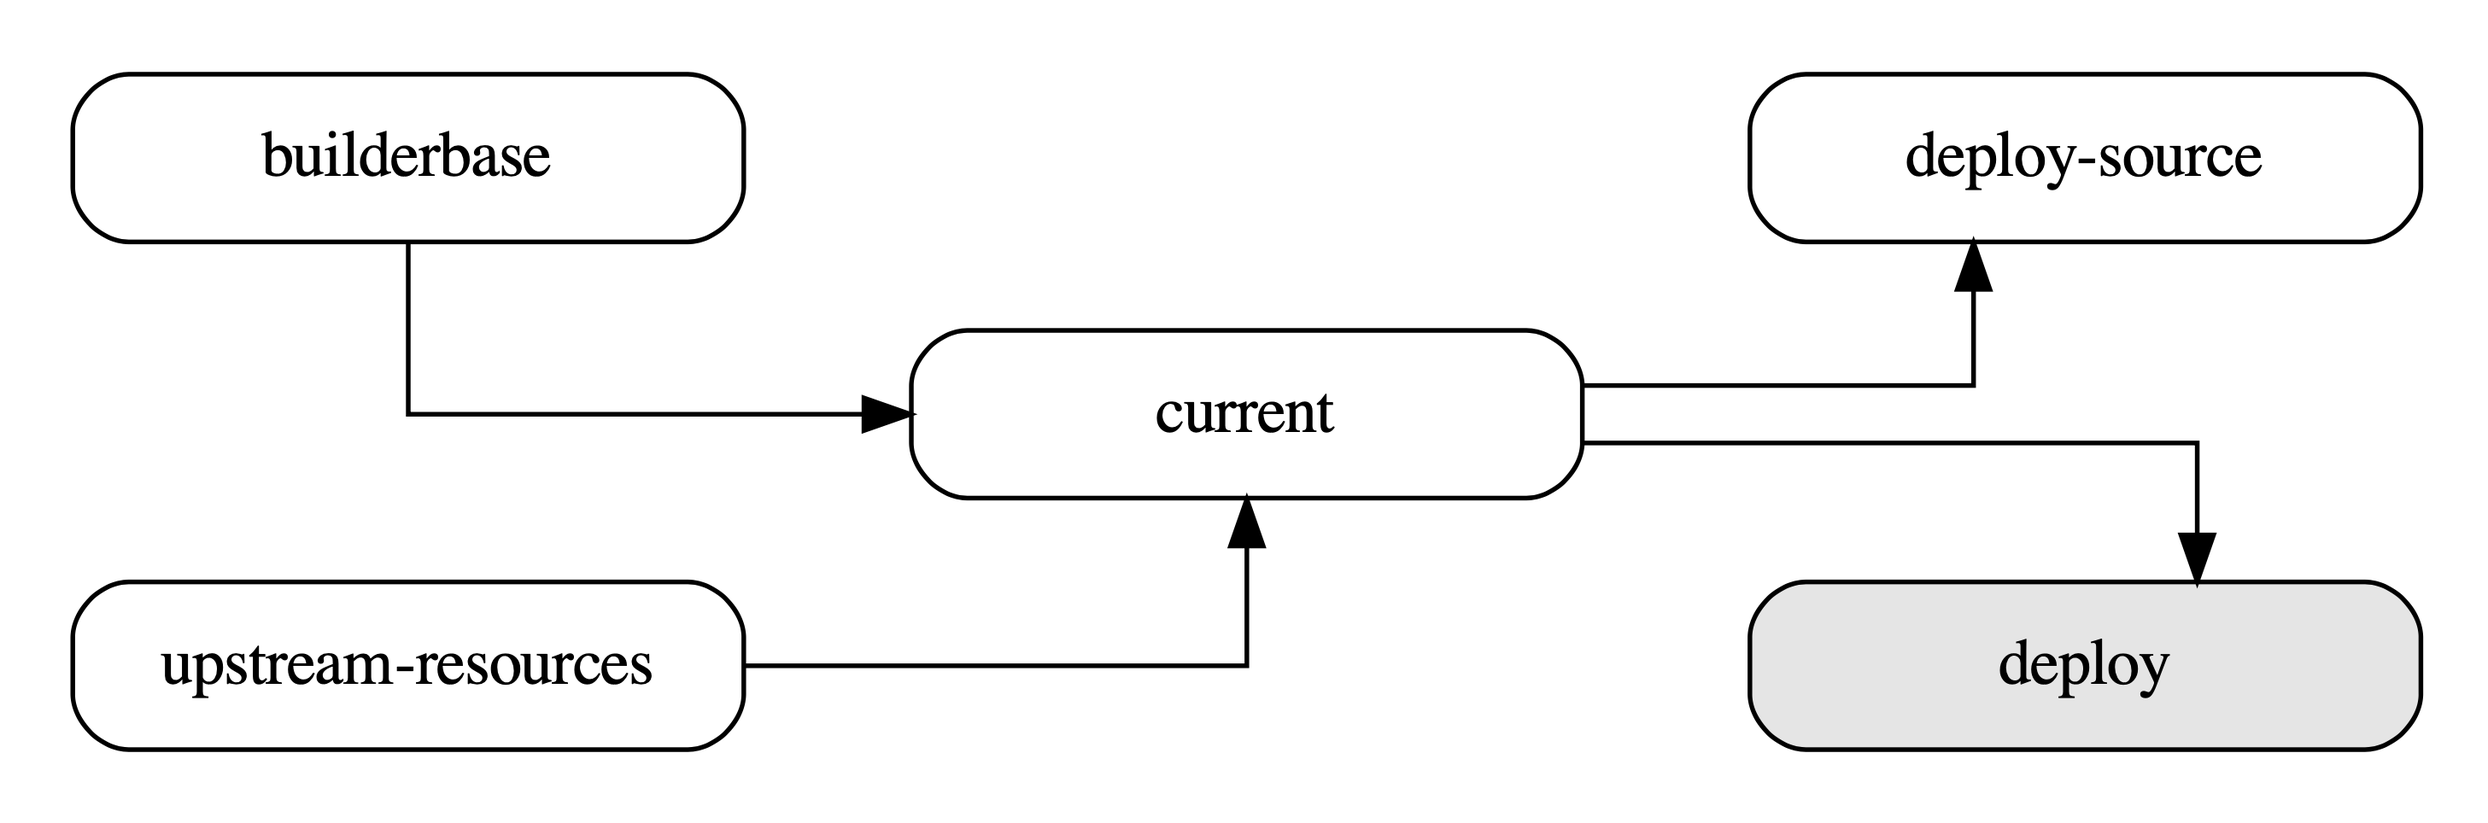
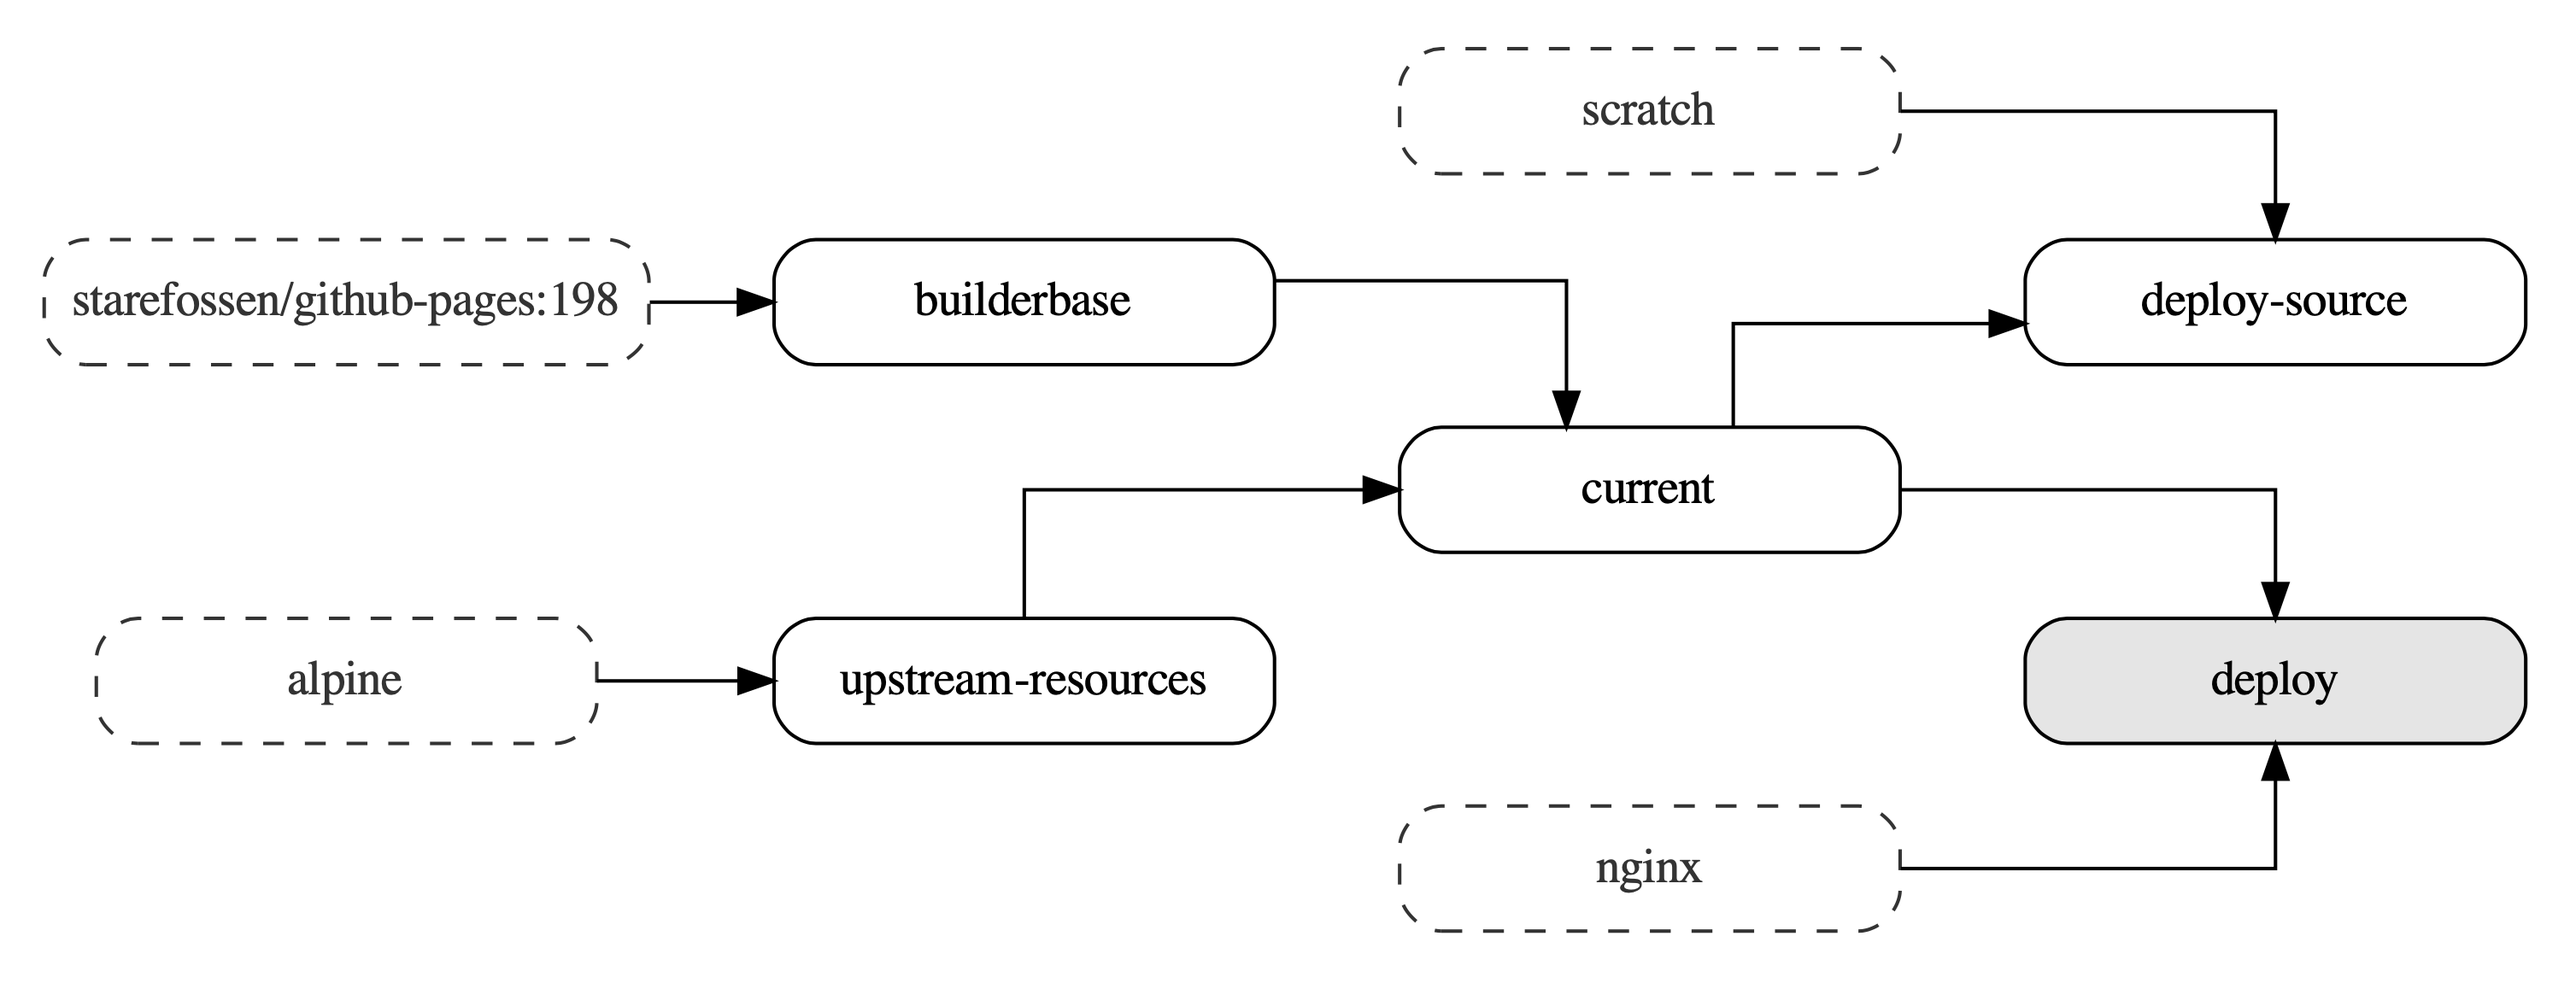
Include external base images in graph output (#3)
* Add comments to Stage struct

* Add support for external base images

* Update readme and example image

* Put all node names in quotes

* Don't use external base image as build stage name

* Uppercase the output Dockerfile.pdf

diff --git a/internal/dockerfile2dot/build.go b/internal/dockerfile2dot/build.go
@@ -13,6 +13,16 @@ func BuildDotFile(simplifiedDockerfile SimplifiedDockerfile) string {
 	graph.AddAttr("G", "rankdir", "LR")
 	graph.AddAttr("G", "nodesep", "1")
 
+	for _, baseImage := range simplifiedDockerfile.BaseImages {
+		graph.AddNode("G", "\""+baseImage.ID+"\"", map[string]string{
+			"shape":     "Mrecord",
+			"width":     "2",
+			"style":     "dashed",
+			"color":     "grey20",
+			"fontcolor": "grey20",
+		})
+	}
+
 	for index, stage := range simplifiedDockerfile.Stages {
 		attrs := map[string]string{
 			"label": "\"" + getStageLabel(stage) + "\"",
@@ -26,7 +36,7 @@ func BuildDotFile(simplifiedDockerfile SimplifiedDockerfile) string {
 			attrs["fillcolor"] = "grey90"
 		}
 
-		graph.AddNode("G", stage.ID, attrs)
+		graph.AddNode("G", "\""+stage.ID+"\"", attrs)
 
 		for _, waitForStageID := range stage.WaitFor {
 			if waitForStageID == "" {
@@ -34,8 +44,8 @@ func BuildDotFile(simplifiedDockerfile SimplifiedDockerfile) string {
 			}
 
 			graph.AddEdge(
-				getRealStageID(simplifiedDockerfile, waitForStageID),
-				stage.ID,
+				"\""+getRealStageID(simplifiedDockerfile, waitForStageID)+"\"",
+				"\""+stage.ID+"\"",
 				true,
 				nil,
 			)
@@ -53,11 +63,13 @@ func getStageLabel(stage Stage) string {
 }
 
 func getRealStageID(simplifiedDockerfile SimplifiedDockerfile, stageID string) string {
+	// Look up the real stage id, could be either numeric or the "AS" alias
 	for _, stage := range simplifiedDockerfile.Stages {
 		if stageID == stage.ID || stageID == stage.Name {
 			return stage.ID
 		}
 	}
-	// This should never happen
-	return ""
+
+	// It is actually an external base image, keep the ID as is
+	return stageID
 }

diff --git a/internal/dockerfile2dot/convert.go b/internal/dockerfile2dot/convert.go
@@ -16,6 +16,8 @@ func dockerfileToSimplifiedDockerfile(content []byte) SimplifiedDockerfile {
 	}
 
 	simplifiedDockerfile := SimplifiedDockerfile{}
+
+	// Set that holds all stage IDs
 	stages := make(map[string]struct{})
 
 	// Add all stages
@@ -29,11 +31,10 @@ func dockerfileToSimplifiedDockerfile(content []byte) SimplifiedDockerfile {
 			stage.ID = fmt.Sprint(stageIndex)
 			stage.WaitFor = []string{child.Next.Value}
 
+			// If there is an "AS" alias, set is at the name
 			if child.Next.Next != nil {
 				stages[child.Next.Next.Next.Value] = struct{}{}
 				stage.Name = child.Next.Next.Next.Value
-			} else {
-				stage.Name = child.Next.Value
 			}
 
 			simplifiedDockerfile.Stages = append(simplifiedDockerfile.Stages, stage)
@@ -52,11 +53,19 @@ func dockerfileToSimplifiedDockerfile(content []byte) SimplifiedDockerfile {
 		}
 	}
 
-	// Remove WaitFors that are actually external images
-	for index, stage := range simplifiedDockerfile.Stages {
-		for waitForIndex, waitFor := range stage.WaitFor {
+	// Set that holds all external base images
+	baseImages := make(map[string]struct{})
+
+	// Add external base images
+	for _, stage := range simplifiedDockerfile.Stages {
+		for _, waitFor := range stage.WaitFor {
 			if _, ok := stages[waitFor]; !ok {
-				simplifiedDockerfile.Stages[index].WaitFor[waitForIndex] = ""
+				// simplifiedDockerfile.Stages[index].WaitFor[waitForIndex] = ""
+				baseImages[waitFor] = struct{}{}
+				simplifiedDockerfile.BaseImages = append(
+					simplifiedDockerfile.BaseImages,
+					BaseImage{ID: waitFor},
+				)
 			}
 		}
 	}

diff --git a/internal/dockerfile2dot/structs.go b/internal/dockerfile2dot/structs.go
@@ -3,14 +3,19 @@ package dockerfile2dot
 // SimplifiedDockerfile contains the parts of the Dockerfile
 // that are relevant for generating the multi-stage build graph
 type SimplifiedDockerfile struct {
-	Stages []Stage
+	BaseImages []BaseImage
+	Stages     []Stage
 }
 
 // Stage contains the parts of a single build stage within a multi-stage Dockerfile
 // that are relevant for generating the multi-stage build graph
 type Stage struct {
-	ID      string
-	Name    string
-	Args    []string
-	WaitFor []string `yaml:"waitFor"`
+	ID      string   // numeric index based on the order of appearance in the Dockerfile
+	Name    string   // alias (the part after the AS) for internal stages
+	WaitFor []string `yaml:"waitFor"` // IDs of stages or external images that the stage depends on
+}
+
+// BaseImage contains the ID of an external base images that a build stage depends on
+type BaseImage struct {
+	ID string // full repo:tag@sha
 }

diff --git a/main.go b/main.go
@@ -36,7 +36,7 @@ func main() {
 		log.Fatal(err)
 	}
 
-	out, err := exec.Command("dot", "-Tpdf", "-odockerfile.pdf", dotFile.Name()).CombinedOutput()
+	out, err := exec.Command("dot", "-Tpdf", "-oDockerfile.pdf", dotFile.Name()).CombinedOutput()
 	if err != nil {
 		log.Println("Oh no, something went wrong!")
 		log.Println()
@@ -48,5 +48,5 @@ func main() {
 		log.Fatal(string(out))
 	}
 
-	fmt.Println("Successfully created dockerfile.pdf")
+	fmt.Println("Successfully created Dockerfile.pdf")
 }

diff --git a/README.md b/README.md
@@ -3,7 +3,7 @@
 [![Go Report Card](https://goreportcard.com/badge/github.com/patrickhoefler/dockerfilegraph)](https://goreportcard.com/report/github.com/patrickhoefler/dockerfilegraph)
 [![Maintainability](https://api.codeclimate.com/v1/badges/472d7a3637297d07773d/maintainability)](https://codeclimate.com/github/patrickhoefler/dockerfilegraph/maintainability)
 
-`dockerfilegraph` visualizes your multi-stage Dockerfile.
+`dockerfilegraph` visualizes your multi-stage Dockerfiles. It outputs a PDF that contains the build stages, the default build target (highlighted in grey) as well as the external base images (with dashed borders).
 
 ## Example Output
 
@@ -17,7 +17,7 @@
 
 ### Installation and Usage
 
-Running `dockerfilegraph` will create a `dockerfile.pdf` file in your current working directory that contains a visual graph representation of your multi-stage Dockerfile.
+Running `dockerfilegraph` will create a `Dockerfile.pdf` in your current working directory that contains a visual graph representation of your multi-stage Dockerfile.
 
 #### Docker
 
